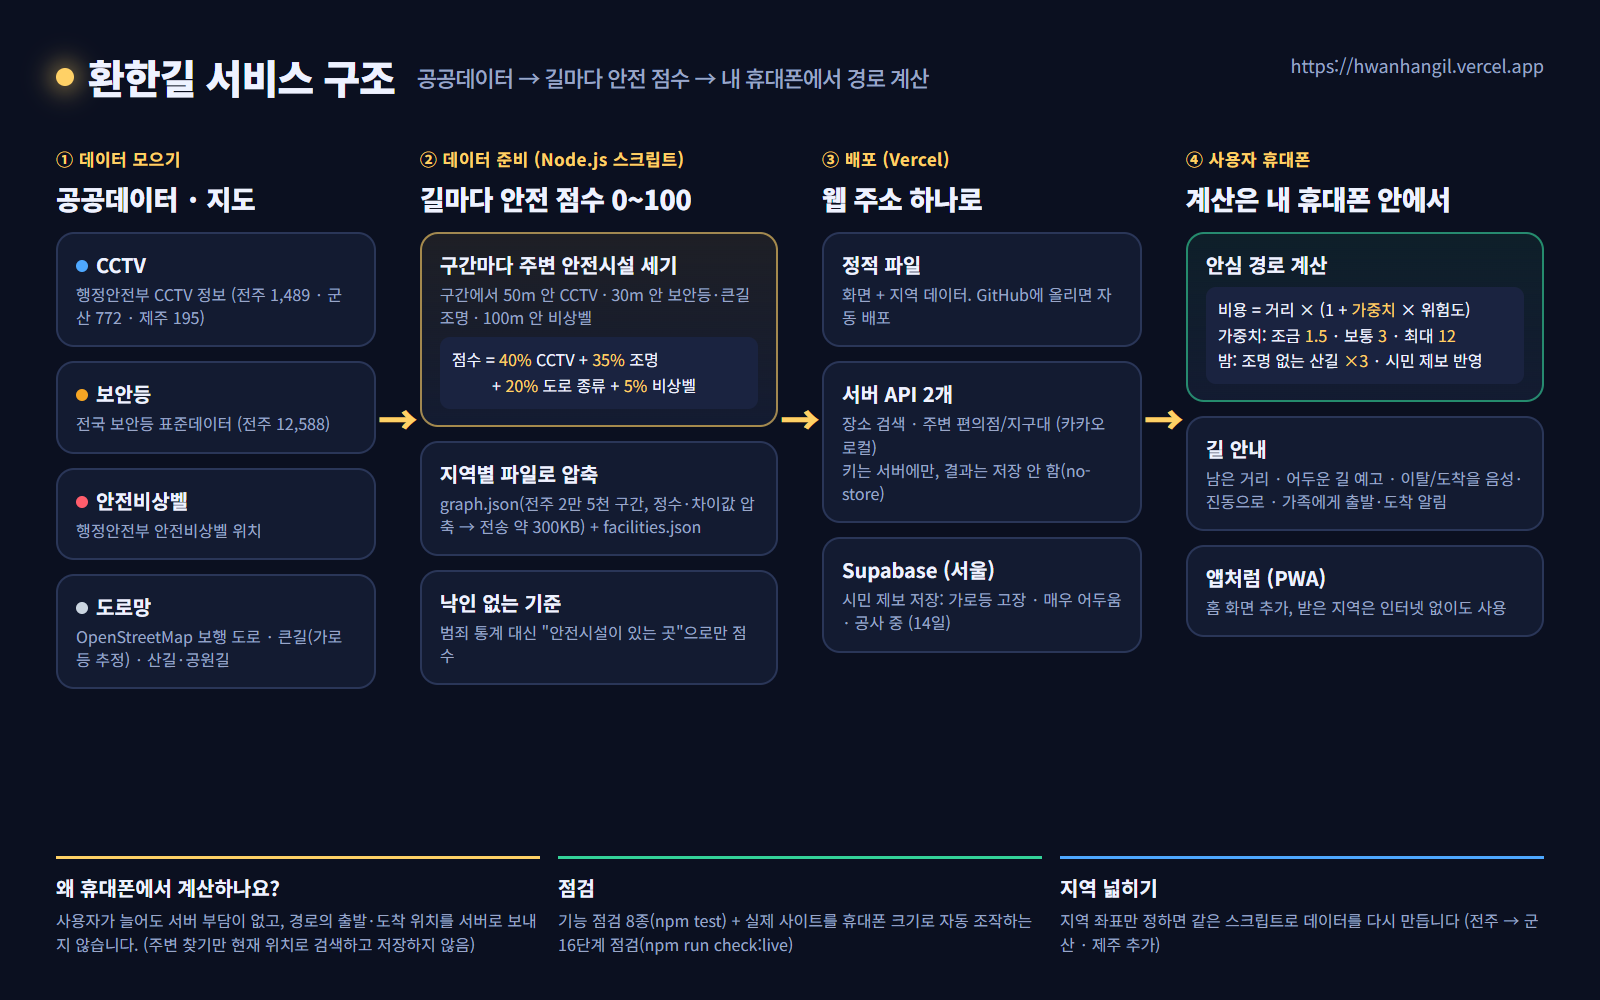
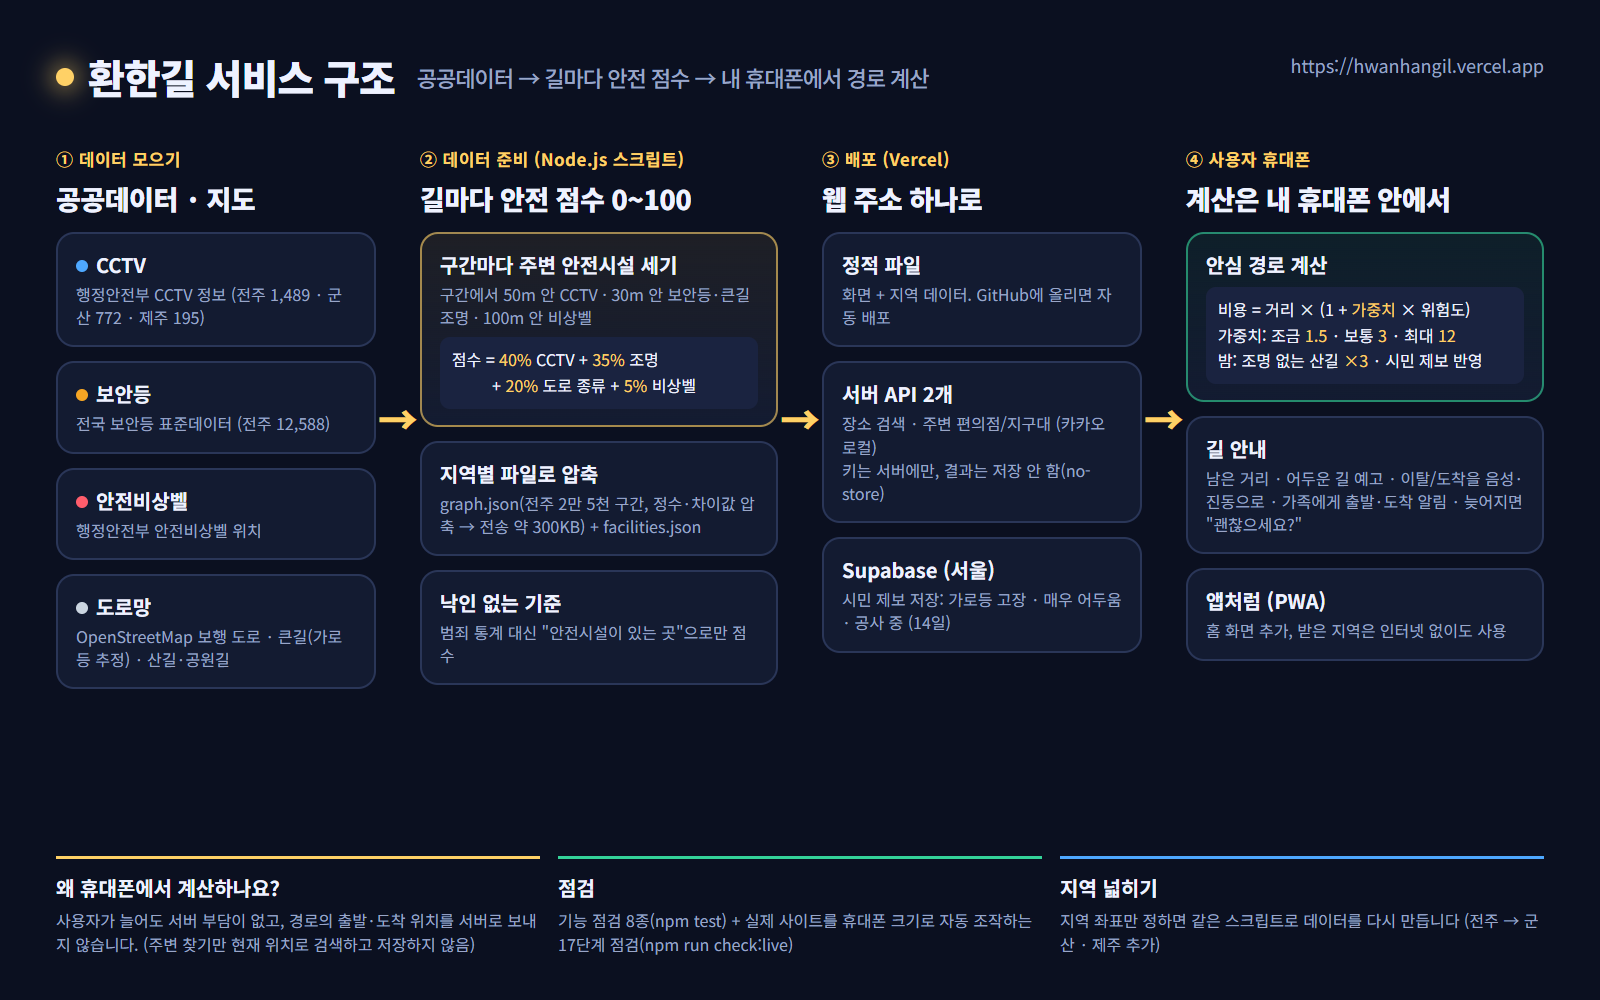
늦어짐 확인: 예상보다 한참 늦으면 "괜찮으세요?" → 괜찮아요 / 가족에게 지금 위치 보내기

Changed region(s): [[0.75, 0.496, 0.9688, 0.651]]

diff --git a/src/components/MapApp.tsx b/src/components/MapApp.tsx
@@ -6,7 +6,7 @@ import { useCallback, useEffect, useMemo, useRef, useState, useSyncExternalStore
 import { LAYERS, loadFacilities, type FacilityData, type LayerId } from "@/lib/facilities";
 import { DEFAULT_REGION, REGIONS, regionById, regionOf, type RegionId } from "@/lib/regions";
 import { FLAG_STREETLIGHT, distM, findRoute, loadGraph, nearestNode, sameRoute, type Graph, type Route } from "@/lib/routing";
-import { ARRIVE_M, OFF_ROUTE_M, buildLine, darkAhead, locate, segmentAt, type RouteLine } from "@/lib/navigation";
+import { ARRIVE_M, OFF_ROUTE_M, buildLine, darkAhead, lateCheck, locate, segmentAt, type RouteLine } from "@/lib/navigation";
 import NavPanel, { type NavState } from "./NavPanel";
 import type { Point } from "./MapView";
 import {
@@ -21,7 +21,7 @@ import {
 import MyPlaces from "./MyPlaces";
 import PlaceField from "./PlaceField";
 import RouteResult from "./RouteResult";
-import { arriveText, departText, encodeShare, parseShare } from "@/lib/share";
+import { arriveText, departText, encodeShare, lateText, parseShare } from "@/lib/share";
 import { isNight } from "@/lib/sun";
 import NightToggle from "./NightToggle";
 import Onboarding from "./Onboarding";
@@ -107,6 +107,9 @@ export default function MapApp() {
   /** 음성 안내 켜기·끄기(이 기기에 저장)와 이미 말한 알림 */
   const voiceOn = useSyncExternalStore(subscribeVoice, getVoiceOn, getVoiceServer);
   const spokenRef = useRef<Set<string>>(new Set());
+  /** 늦어짐 확인("괜찮으세요?"): 안내 시작 시각, 예상 시간(분), 마지막으로 "괜찮아요"를 누른 시각 */
+  const navClockRef = useRef<{ startedAt: number; expected: number; okAt: number | null } | null>(null);
+  const [late, setLate] = useState(false);
   /** 시민 제보: 최근 제보 목록, 제보 작성 중 상태, 고마움 알림 */
   const [reports, setReports] = useState<Report[]>([]);
   const [reporting, setReporting] = useState<{
@@ -557,8 +560,14 @@ ${url}` : text);
   };
 
   /** 안심 귀가 알림: 가족·친구에게 출발(도착 예정 시각 + 경로 링크)·도착을 알림 */
-  const notifyFamily = (kind: "depart" | "arrive", minutes: number) => {
+  const notifyFamily = (kind: "depart" | "arrive" | "late", minutes: number) => {
     const dest = to?.label ?? "도착지";
+    if (kind === "late") {
+      // 지금 위치 링크: 받는 사람이 열면 그 위치까지 안심 경로가 보임
+      const me = nav?.me;
+      const here = me ? `${window.location.origin}/?${encodeShare({ to: { lat: me.lat, lng: me.lng, label: "친구의 지금 위치" } })}` : routeUrl();
+      return sendShare(lateText(dest), here);
+    }
     return kind === "depart" ? sendShare(departText(dest, minutes), routeUrl()) : sendShare(arriveText(dest));
   };
 
@@ -571,6 +580,8 @@ ${url}` : text);
     setPicking(null);
     setNav({ me: null, along: 0, offset: 0, offCount: 0, arrived: false, follow: true, error: null });
     spokenRef.current = new Set();
+    navClockRef.current = { startedAt: Date.now(), expected: line ? Math.max(1, Math.round(line.total / 75)) : 15, okAt: null };
+    setLate(false);
     // 버튼을 누른 순간에 말해야 아이폰(사파리)에서도 이후 음성 안내가 나옵니다
     if (voiceOn && line) speak(startText(to?.label ?? "도착지", line.total));
   };
@@ -584,6 +595,30 @@ ${url}` : text);
 
   const navSegment = nav && line && shownSafe ? segmentAt(shownSafe, line, nav.along) : null;
   const navDark = nav && line && shownSafe ? darkAhead(shownSafe, line, nav.along) : null;
+
+  // 늦어짐 확인: 예상보다 한참 늦으면 "괜찮으세요?"를 묻고 소리·진동으로 알림 (30초마다 확인)
+  const navWalking = !!nav && !nav.arrived;
+  useEffect(() => {
+    if (!navWalking) return;
+    const tick = () => {
+      const c = navClockRef.current;
+      if (!c) return;
+      const ask = lateCheck(c.startedAt, c.expected, Date.now(), c.okAt);
+      setLate((was) => {
+        if (ask && !was && voiceOn) {
+          speak("예상보다 늦어지고 있어요. 괜찮으세요?");
+          buzz([300, 120, 300, 120, 300]);
+        }
+        return ask;
+      });
+    };
+    const id = window.setInterval(tick, 30_000);
+    return () => window.clearInterval(id);
+  }, [navWalking, voiceOn]);
+  const lateOk = () => {
+    if (navClockRef.current) navClockRef.current.okAt = Date.now();
+    setLate(false);
+  };
 
   // 음성·진동 안내: 주머니에 넣고 걸어도 이탈·어두운 길·도착을 알 수 있게
   const destLabel = to?.label ?? "도착지";
@@ -781,6 +816,8 @@ ${url}` : text);
               }}
               onSafe={openSafe}
               onNotify={notifyFamily}
+              late={late && navWalking}
+              onLateOk={lateOk}
               voiceOn={voiceOn}
               onToggleVoice={() => setVoiceOn(!voiceOn)}
             />

diff --git a/src/components/NavPanel.tsx b/src/components/NavPanel.tsx
@@ -28,20 +28,23 @@ interface Props {
   voiceOn: boolean;
   onToggleVoice: () => void;
   /** 안심 귀가 알림 (가족·친구에게 출발·도착 알리기) */
-  onNotify?: (kind: "depart" | "arrive", minutes: number) => Promise<"shared" | "copied" | "failed">;
+  onNotify?: (kind: "depart" | "arrive" | "late", minutes: number) => Promise<"shared" | "copied" | "failed">;
+  /** 예상보다 한참 늦어져 "괜찮으세요?"를 물을 때 */
+  late?: boolean;
+  onLateOk?: () => void;
 }
 
 const meters = (m: number) => (m >= 1000 ? `${(m / 1000).toFixed(1)}km` : `${Math.max(0, Math.round(m / 10) * 10)}m`);
 
 /** 걸으면서 보는 안내 화면 (지도를 많이 가리지 않게 작게) */
-export default function NavPanel({ nav, total, segment, dark, destination, onReroute, onFollow, onStop, onSafe, voiceOn, onToggleVoice, onNotify }: Props) {
+export default function NavPanel({ nav, total, segment, dark, destination, onReroute, onFollow, onStop, onSafe, voiceOn, onToggleVoice, onNotify, late, onLateOk }: Props) {
   const remaining = Math.max(0, total - nav.along);
   const minutes = Math.max(1, Math.round(remaining / 75));
   const offRoute = nav.offCount >= 2 && !nav.arrived;
   const [notice, setNotice] = useState<string | null>(null);
-  const notify = async () => {
+  const notify = async (kind: "depart" | "arrive" | "late" = nav.arrived ? "arrive" : "depart") => {
     if (!onNotify) return;
-    const r = await onNotify(nav.arrived ? "arrive" : "depart", minutes);
+    const r = await onNotify(kind, minutes);
     if (r === "shared") return;
     setNotice(r === "copied" ? "✓ 알림 문장을 복사했어요. 문자·메신저에 붙여 넣어 보내세요." : "알림을 보내지 못했어요.");
     setTimeout(() => setNotice(null), 4000);
@@ -72,6 +75,22 @@ export default function NavPanel({ nav, total, segment, dark, destination, onRer
               </span>
             )}
           </div>
+
+          {late && (
+            <div role="alert" className="mt-2 rounded-xl border border-warn/60 bg-warn/15 px-3 py-2">
+              <p className="text-sm font-bold text-warn">⏰ 예상보다 늦어지고 있어요. 괜찮으세요?</p>
+              <div className="mt-1.5 flex gap-1.5">
+                <button type="button" onClick={onLateOk} className="flex-1 rounded-lg border border-line py-2 text-xs font-bold">
+                  괜찮아요
+                </button>
+                {onNotify && (
+                  <button type="button" onClick={() => void notify("late")} className="flex-[1.6] rounded-lg bg-warn py-2 text-xs font-bold text-bg">
+                    📨 가족에게 지금 위치 보내기
+                  </button>
+                )}
+              </div>
+            </div>
+          )}
 
           {offRoute ? (
             <div className="mt-2 rounded-xl bg-warn/15 px-3 py-2">

diff --git a/scripts/diagram/architecture.html b/scripts/diagram/architecture.html
@@ -76,14 +76,14 @@
       <div class="card green"><b>안심 경로 계산</b>
         <div class="formula">비용 = 거리 × (1 + <em>가중치</em> × 위험도)<br>가중치: 조금 <em>1.5</em> · 보통 <em>3</em> · 최대 <em>12</em><br>밤: 조명 없는 산길 <em>×3</em> · 시민 제보 반영</div>
       </div>
-      <div class="card"><b>길 안내</b><p>남은 거리 · 어두운 길 예고 · 이탈/도착을 음성·진동으로 · 가족에게 출발·도착 알림</p></div>
+      <div class="card"><b>길 안내</b><p>남은 거리 · 어두운 길 예고 · 이탈/도착을 음성·진동으로 · 가족에게 출발·도착 알림 · 늦어지면 "괜찮으세요?"</p></div>
       <div class="card"><b>앱처럼 (PWA)</b><p>홈 화면 추가, 받은 지역은 인터넷 없이도 사용</p></div>
     </div>
   </div>
 
   <div class="bottom">
     <div class="note y"><b>왜 휴대폰에서 계산하나요?</b><p>사용자가 늘어도 서버 부담이 없고, 경로의 출발·도착 위치를 서버로 보내지 않습니다. (주변 찾기만 현재 위치로 검색하고 저장하지 않음)</p></div>
-    <div class="note g"><b>점검</b><p>기능 점검 8종(npm test) + 실제 사이트를 휴대폰 크기로 자동 조작하는 16단계 점검(npm run check:live)</p></div>
+    <div class="note g"><b>점검</b><p>기능 점검 8종(npm test) + 실제 사이트를 휴대폰 크기로 자동 조작하는 17단계 점검(npm run check:live)</p></div>
     <div class="note b"><b>지역 넓히기</b><p>지역 좌표만 정하면 같은 스크립트로 데이터를 다시 만듭니다 (전주 → 군산 · 제주 추가)</p></div>
   </div>
 </body>

diff --git a/src/lib/navigation.ts b/src/lib/navigation.ts
@@ -101,3 +101,12 @@ export function segmentAt(route: Route, line: RouteLine, along: number) {
   }
   return route.segments[route.segments.length - 1] ?? null;
 }
+
+/** 늦어짐 확인("괜찮으세요?"): 예상 시간의 1.5배와 예상 +10분 중 늦은 때가 지나면 물어봄.
+ *  "괜찮아요"를 누르면 10분 뒤에 다시 물어봄 */
+export const LATE_REASK_MS = 10 * 60_000;
+export function lateCheck(startedAt: number, expectedMin: number, now: number, okAt: number | null): boolean {
+  const limit = startedAt + Math.max(expectedMin * 1.5, expectedMin + 10) * 60_000;
+  if (now < limit) return false;
+  return okAt === null || now - okAt >= LATE_REASK_MS;
+}

diff --git a/src/lib/share.ts b/src/lib/share.ts
@@ -82,3 +82,8 @@ export function departText(dest: string, minutes: number, now: Date = new Date()
 export function arriveText(dest: string, now: Date = new Date()): string {
   return `[환한길] ${dest}에 안전하게 도착했어요. (${hhmm(now)})`;
 }
+
+/** 늦어짐 알림: 지금 위치 링크를 열면 받는 사람 휴대폰에서 그 위치까지 안심 경로가 보임 */
+export function lateText(dest: string): string {
+  return `[환한길] 예상보다 늦어지고 있어요. ${toward(dest)} 가는 중이에요. 아래 링크가 지금 제 위치예요.`;
+}

diff --git a/제출정리.md b/제출정리.md
@@ -36,7 +36,7 @@
 > 1. **안심 경로 추천**: CCTV·보안등·안전비상벨 공공데이터로 모든 길에 안전 점수를 매겨, 최단 경로와 나란히 비교해 보여 줍니다.
 > 2. **길 안내**: 걸어가는 동안 앞쪽 어두운 구간 예고, 경로 이탈·도착을 음성과 진동으로 알려 줍니다.
 > 3. **가까운 안전한 곳**: 버튼 하나로 가장 가까운 비상벨·24시 편의점·지구대와 그곳까지의 안심 경로, 112 바로 걸기.
-> 4. **안심 귀가 알림**: 길 안내 중 버튼 하나로 가족·친구에게 "지금 집으로 가는 중, 약 12분 뒤(0:04쯤) 도착 예정 + 경로 링크"를, 도착하면 "안전하게 도착했어요"를 카카오톡·문자로 보냅니다.
+> 4. **안심 귀가 알림**: 길 안내 중 버튼 하나로 가족·친구에게 "지금 집으로 가는 중, 약 12분 뒤(0:04쯤) 도착 예정 + 경로 링크"를, 도착하면 "안전하게 도착했어요"를 카카오톡·문자로 보냅니다. 예상보다 한참 늦어지면 휴대폰이 먼저 **"괜찮으세요?"**라고 묻고, 버튼 하나로 지금 위치를 가족에게 보낼 수 있습니다.
 > 5. **집까지 한 번에·시민 제보**: 집을 저장해 한 번에 귀가 경로, 고장 난 가로등 제보가 다른 사람의 경로에 반영.
 
 ---
@@ -75,6 +75,7 @@
 > | 걸어가는 중 | 길 안내 + 음성·진동 알림 (휴대폰을 주머니에 넣어도 됨), 화면 꺼짐 방지 |
 > | 불안할 때 | 🆘 주변: 가까운 비상벨·편의점·지구대 + 112 바로 걸기 |
 > | 가족에게 알릴 때 | 📨 출발 알리기(도착 예정 시각 + 경로 링크) → 📨 도착 알리기. 위치를 서버에 저장하지 않고 내 휴대폰 공유창으로 보냄 |
+> | 예상보다 늦어질 때 | ⏰ "괜찮으세요?" (소리·진동) → 괜찮아요 / 가족에게 지금 위치 보내기 (받은 사람이 링크를 열면 그 위치까지 안심 경로) |
 > | 인터넷이 약할 때 | 이미 받은 지역은 인터넷 없이도 지도·경로·비상벨 사용 |
 >
 > **실제 활용 가능성**
@@ -111,7 +112,7 @@
 >
 > **테스트 결과**
 > - **기능 단위 자동 점검 8종**(경로 계산, 내 장소, 길 안내 이탈·도착, 공유 링크·귀가 알림 문장, 밤 모드, 제보 반영, 지역 데이터, 음성 안내): 기능을 바꿀 때마다 모두 통과한 뒤에만 배포했습니다.
-> - **실제 사이트 자동 점검 16단계**(`npm run check:live`): 배포된 사이트를 휴대폰 크기 브라우저로 열어 첫 화면 → 장소 검색 → 안심 경로 → 공유 → 길 안내 → 귀가 알림 → 경로 이탈·다시 찾기 → 도착 → 주변 안전한 곳 → 제보 창 → 군산·제주 경로 → 지역 바꾸기 → 데이터 안내까지 사람이 쓰는 순서대로 자동으로 눌러 봅니다. **16개 중 16개 통과, 자바스크립트 오류 0건, 첫 화면 지도 표시 약 2초**(결과표: docs/live-check.md).
+> - **실제 사이트 자동 점검 17단계**(`npm run check:live`): 배포된 사이트를 휴대폰 크기 브라우저로 열어 첫 화면 → 장소 검색 → 안심 경로 → 공유 → 길 안내 → 귀가 알림 → 늦어짐 확인 → 경로 이탈·다시 찾기 → 도착 → 주변 안전한 곳 → 제보 창 → 군산·제주 경로 → 지역 바꾸기 → 데이터 안내까지 사람이 쓰는 순서대로 자동으로 눌러 봅니다. **17개 중 17개 통과, 자바스크립트 오류 0건, 첫 화면 지도 표시 약 2초**(결과표: docs/live-check.md).
 > - 매번 실제 사이트를 휴대폰 크기와 PC 크기로 직접 조작해 다시 확인했습니다.
 
 ---

diff --git a/개선목록.md b/개선목록.md
@@ -60,6 +60,7 @@
 - [x] **22. 자막 시연 영상 자동 생성** `[자동]` → 루프 20 (`npm run demo-video` → docs/demo/hwanhangil-demo.mp4, 90초): 신청서 증빙자료의 "시연 영상"용. 실제 사이트를 휴대폰 크기로 열어 안심 경로 → 길 안내(실제 경로를 따라 걷기) → 출발·도착 알림 → 주변 → 3개 지역 → 데이터 안내를 자막과 함께 녹화. 유튜브 업로드와 목소리 녹화는 사용자 작업
 - [x] **23. 피한 어두운 길 지도 표시** `[자동]` → 루프 21: 최단 경로에만 있는 어두운 구간(안심 경로가 피한 길) 중 가장 긴 곳을 지도에 빨간 점선과 "어두운 길 328m 피함" 이름표로 보여 줌. 개발 모드의 Leaflet 캔버스 오류도 함께 막음
 - [x] **24. 서비스 구조도 그림** `[자동]` → 루프 22 (docs/diagrams/architecture.png): 공공데이터 → 안전 점수 → 배포 → 휴대폰에서 경로 계산 흐름을 한 장으로. 제출정리 5번 칸·README에 연결
+- [x] **25. 늦어짐 확인 "괜찮으세요?"** `[자동]` → 루프 23: 길 안내 중 예상 시간의 1.5배(최소 +10분)가 지나도 도착하지 않으면 소리·진동과 함께 "괜찮으세요?"를 묻고, [괜찮아요](10분 뒤 다시 확인) / [가족에게 지금 위치 보내기](받은 사람이 링크를 열면 그 위치까지 안심 경로). 서버 없이 휴대폰 안에서만 계산
 
 ## 루프 작업 규칙
 

diff --git a/README.md b/README.md
@@ -55,7 +55,7 @@ Next.js 16 · TypeScript · Tailwind CSS · Leaflet · Supabase · Vercel · PWA
 
 ```bash
 npm test        # 자동 점검 8종 (경로·내 장소·길 안내·공유·밤·제보·지역·음성)
-npm run check:live   # 실제 사이트를 휴대폰 크기 Edge로 자동 조작해 16단계 점검 → docs/live-check.md
+npm run check:live   # 실제 사이트를 휴대폰 크기 Edge로 자동 조작해 17단계 점검 → docs/live-check.md
 npm run screens      # 제출용 화면 사진 다시 찍기 → docs/screenshots/
 npm run demo-video   # 자막 들어간 시연 영상(90초, 소리 없음) 자동 생성 → docs/demo/
 node scripts/make-diagram.mjs   # 서비스 구조도 그림 → docs/diagrams/architecture.png
